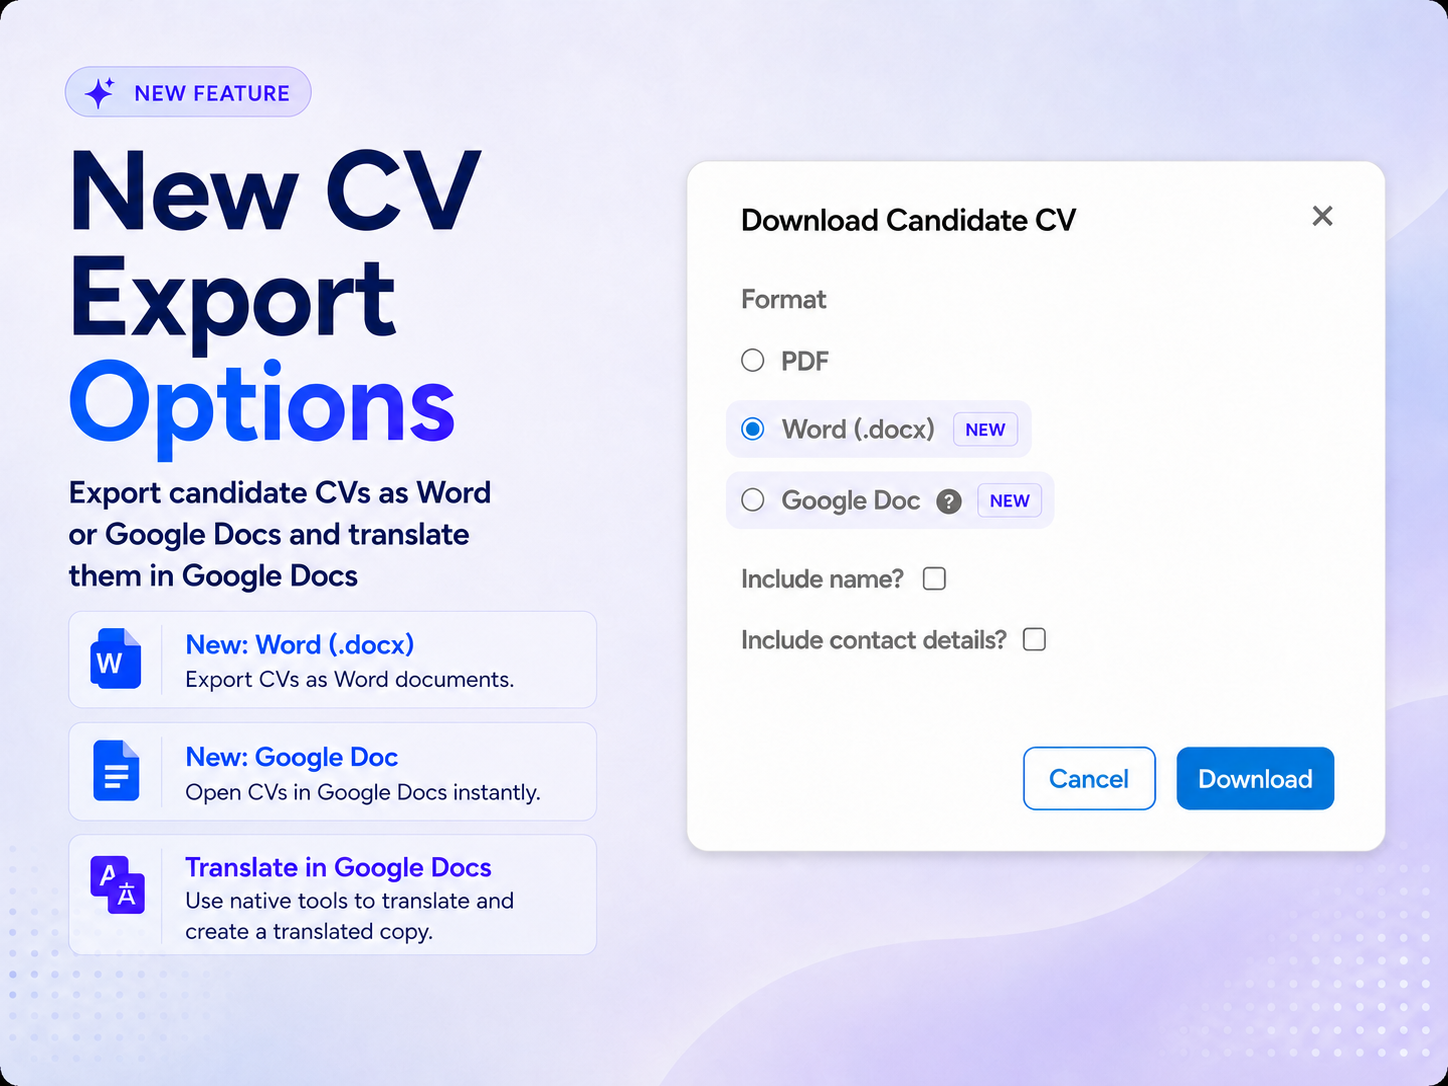
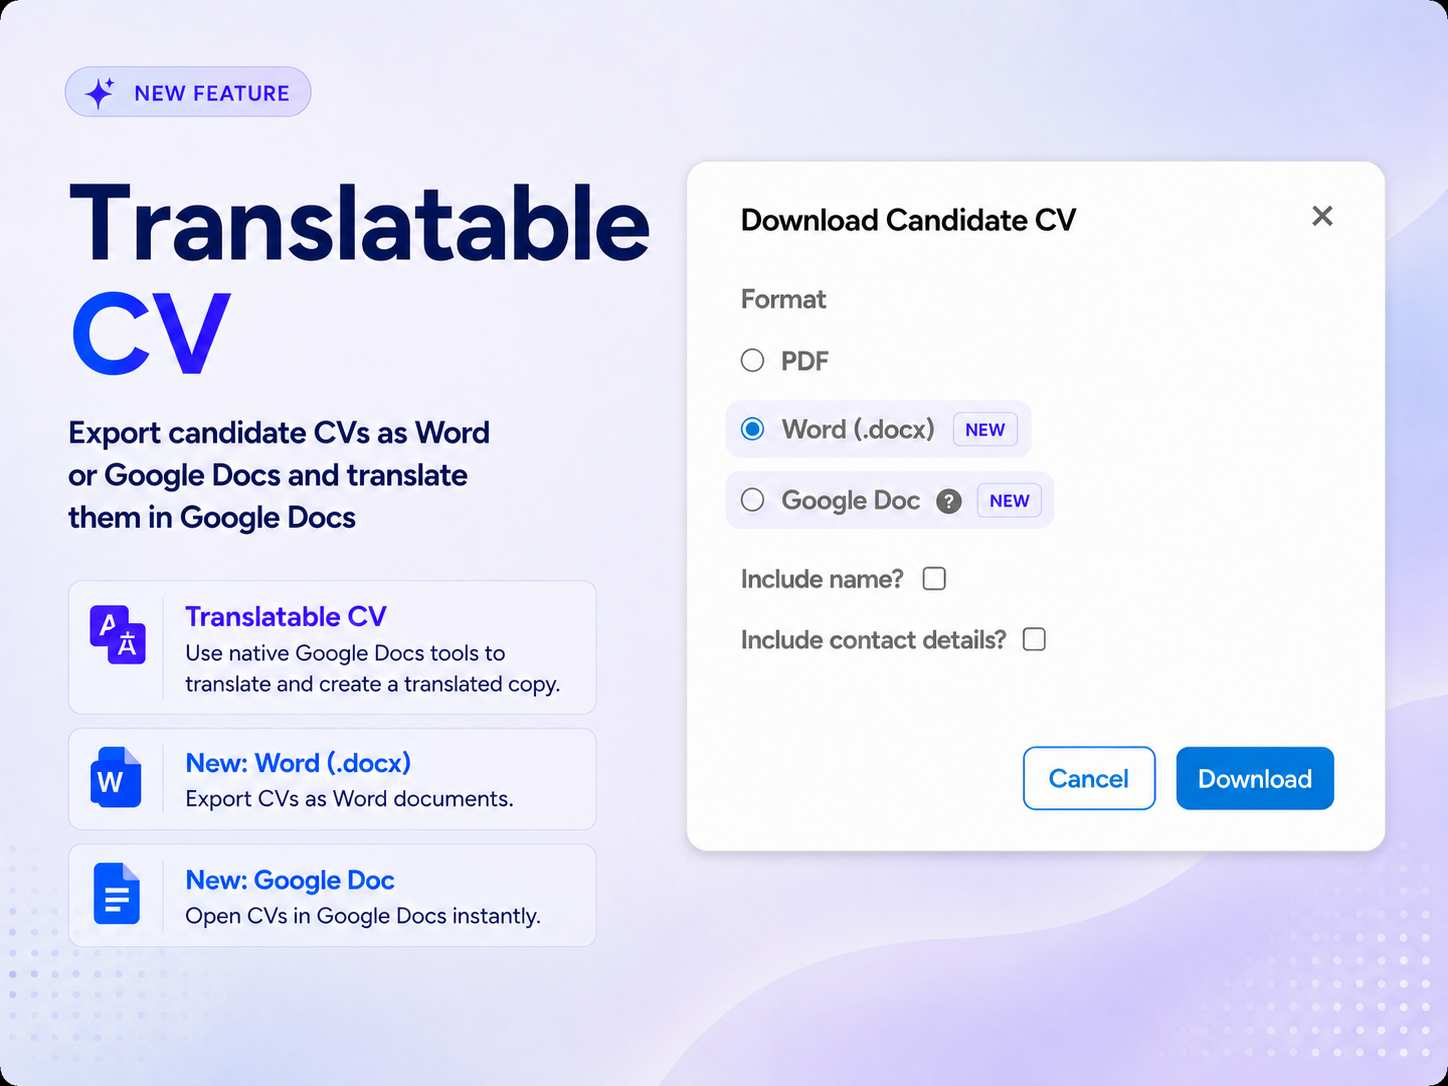
update the release notes

diff --git a/docs/release_notes_v2_5_1.md b/docs/release_notes_v2_5_1.md
@@ -37,23 +37,7 @@ sass:
     </div>
   </a>
 
-  <a href="./v251/task_email_alerts" class="card" style="margin-top: 2rem">
-    <img src="./assets/images/v251/TaskEmailAlerts.png" alt="Task email alerts" class="card-image">
-    <div class="card-body">
-      <div class="card-footer">
-        <button class="btn btn-sm">Learn more</button>
-      </div>
-    </div>
-  </a>
-
-</div>
-
-## Other Enhancements
-* Toggle page size for candidate results
-
-<div class="card-container">
-
-  <a href="./v251/agreement_management" class="card">
+  <a href="./v251/agreement_management" class="card" style="margin-top: 2rem">
     <img src="./assets/images/v251/AgreementManagement.png" alt="Agreement management" class="card-image">
     <div class="card-body">
       <div class="card-footer">
@@ -64,15 +48,58 @@ sass:
 
 </div>
 
+## Other Enhancements
+
+<div class="card-container">
+  <a href="./v251/task_email_alerts" class="card">
+    <img src="./assets/images/v251/TaskEmailAlerts.png" alt="Task email alerts" class="card-image">
+    <div class="card-body">
+      <div class="card-footer">
+        <button class="btn btn-sm">Learn more</button>
+      </div>
+    </div>
+  </a>
+
+  <a href="./v251/casi_service_lists" class="card">
+    <img src="./assets/images/v251/CasiServiceLists.png" alt="CASI service lists" class="card-image">
+    <div class="card-body">
+      <div class="card-footer">
+        <button class="btn btn-sm">Learn more</button>
+      </div>
+    </div>
+  </a>
+</div>
+
+
+## New Tools and Standards
+
+<div class="card-container">
+
+  <a href="./v251/linear_product_roadmap" class="card">
+    <img src="./assets/images/v251/LinearProductRoadmap.png" alt="Linear product roadmap" class="card-image">
+    <div class="card-body">
+      <div class="card-footer">
+        <button class="btn btn-sm">Learn more</button>
+      </div>
+    </div>
+  </a>
+
+  <a href="./v251/vanta_integration" class="card">
+    <img src="./assets/images/v251/VantaAwsIntegration.png" alt="Vanta AWS integration" class="card-image">
+    <div class="card-body">
+      <div class="card-footer">
+        <button class="btn btn-sm">Learn more</button>
+      </div>
+    </div>
+  </a>
+
+</div>
 
 # User Guides
 
 Helpful TC user guides:
 <ul>
-    <li>
-        <a href="https://tc-api.redocly.app/openapi" 
-        target="_blank">Talent Catalog API on Redoc</a>
-    </li>
+    
     <li>
         <a href="https://github.com/Talent-Catalog/talentcatalog/blob/staging/server/src/main/java/org/tctalent/server/casi/README.md" 
         target="_blank">CASI (Candidate Assistance Services Interface) -- Developer Guide</a>
@@ -80,6 +107,10 @@ Helpful TC user guides:
     <li>
         <a href="https://drive.google.com/file/d/1CBBYNjuRrYgOQ0xDRjiegqoznek_i-MB/view?usp=drive_link" 
         target="_blank">Italy Train-to-Hire: Task Management Documentation</a>
+    </li>
+    <li>
+        <a href="https://tc-api.redocly.app/openapi" 
+        target="_blank">Talent Catalog API on Redoc</a>
     </li>
 </ul>
 
@@ -94,13 +125,18 @@ Helpful TC user guides:
 
 # Data Improvements
 
+* Job experience text: candidate and admin text can be kept separate
+* Agreement management for candidate service-provider agreements
+* Full candidate deletion for GDPR-related erasure requests
+
 # UI / UX Enhancements
 
 *  Display folder name on Candidate profile > Additional Info tab > uploaded files
-
-## Other UI / UX Enhancements
+*  Toggle page size for candidate results
 
 # Performance Improvements
+
+While this release wasn't focused on performance, we aren't slowing down after those massive v2.5.0 gains. Stay tuned—even more speed improvements are already in the pipeline! We’re just getting warmed up. 🚀
 
 # Security Updates
 
@@ -124,6 +160,7 @@ Helpful TC user guides:
 * Fixed citizenship intake panel errors when data is missing
 * Resolved migration issue causing some candidates not to be loaded
 * Highlighting matches in search results now only highlights matching words
+* Fixed candidate note ordering in search result summary views
 
 # Developer Notes
 
@@ -134,6 +171,7 @@ Helpful TC user guides:
 
 ## Test Coverage
 * Add tests for candidate-related service classes
+* We’ve successfully scaled our application test coverage from 0% to a robust 60%. But we aren't stopping there—we are actively driving toward an 80% coverage threshold, aligning with industry-standard benchmarks to ensure maximum stability for all future releases.
 
 ## Code Refactoring
 
@@ -148,30 +186,6 @@ Helpful TC user guides:
 * Configure TBB AWS tasks for new translation service
 
 ## Logging and Monitoring
-
-## New Tools and Standards
-
-<div class="card-container">
-
-  <a href="./v251/linear_product_roadmap" class="card">
-    <img src="./assets/images/v251/LinearProductRoadmap.png" alt="Linear product roadmap" class="card-image">
-    <div class="card-body">
-      <div class="card-footer">
-        <button class="btn btn-sm">Learn more</button>
-      </div>
-    </div>
-  </a>
-
-  <a href="./v251/vanta_aws_integration" class="card">
-    <img src="./assets/images/v251/VantaAwsIntegration.png" alt="Vanta AWS integration" class="card-image">
-    <div class="card-body">
-      <div class="card-footer">
-        <button class="btn btn-sm">Learn more</button>
-      </div>
-    </div>
-  </a>
-
-</div>
 
 ## Other Enhancements 
 * Linear product roadmap

diff --git a/docs/v251/casi_service_lists.md b/docs/v251/casi_service_lists.md
@@ -1,0 +1,41 @@
+---
+title: CASI Service Lists
+description: Service-managed saved lists for CASI workflows
+sass:
+  style: compressed
+---
+
+# CASI Service Lists
+
+CASI now includes a service list subsystem for managing Saved Lists used by Candidate Assistance Services.
+
+---
+
+### Service-managed saved lists
+
+Each Candidate Assistance Service can declare the Saved Lists it needs, the role each list plays, and which admin actions are allowed for candidates in those lists.
+
+On startup, Talent Catalog creates or updates the required service lists idempotently, helping avoid hardcoded list IDs across environments.
+
+---
+
+### LinkedIn service support
+
+The LinkedIn service now declares its own service lists instead of relying on manually created Saved Lists with hardcoded IDs.
+
+This includes lists for issue reports, assignment failures, and numbered eligibility lists used by the service.
+
+---
+
+### Admin actions from saved lists
+
+When a Saved List is connected to a CASI service list, admins can see permitted service actions directly in the standard Saved List UI.
+
+For this release, service list actions support reassignment workflows. After a successful action, admins are prompted to remove reassigned candidates from the list.
+
+<div class="card-container">
+  <img src="../assets/images/v251/CasiServiceLists1.png"
+        alt="CASI service lists" class="card-image">
+  <img src="../assets/images/v251/CasiServiceLists2.png"
+        alt="CASI service lists" class="card-image">
+</div>

diff --git a/docs/v251/full_candidate_deletion.md b/docs/v251/full_candidate_deletion.md
@@ -11,11 +11,23 @@ Talent Catalog now supports full candidate deletion for cases where a candidate 
 
 ---
 
-### Supporting candidate privacy rights
+### Supporting candidate privacy rights 
 
 Candidates may request that all of their data is removed from Talent Catalog.
 
-This release improves support for this workflow and helps Talent Catalog meet stronger privacy and data protection requirements.
+This release improves support for this workflow and helps Talent Catalog meet stronger privacy and GDPR data protection requirements.
+
+---
+
+### Deletion status remains the preferred option
+
+In most cases, marking a candidate status as deleted remains the preferred approach.
+
+This preserves historical information for reporting, statistics, and future operational context, while ensuring the candidate is no longer shared or treated as active in normal workflows.
+
+Full candidate deletion is intended for the smaller number of cases where a candidate specifically requests that all of their data be removed.
+
+This gives administrators a supported way to complete full data deletion without needing manual database changes.
 
 ---
 

diff --git a/docs/v251/linear_product_roadmap.md b/docs/v251/linear_product_roadmap.md
@@ -7,13 +7,15 @@ sass:
 
 # Linear Product Roadmap
 
-The engineering team has moved workflows from ZenHub to Linear.
+The engineering team has moved workflows from ZenHub to [Linear](https://linear.app/) — the industry standard for lightning-fast issue tracking, clear planning, and powerful GitHub integration.
 
 ---
 
 ### Linear workspace setup
 
 The Linear workspace has been created as the new home for roadmap planning, issue tracking, and delivery coordination.
+
+Linear is widely used by modern product and engineering teams because it supports fast issue tracking, clear planning, and strong GitHub-based development workflows.
 
 Initial setup focused on inviting admin users first, configuring teams, and preparing the workspace before wider rollout.
 

diff --git a/docs/v251/cv_export_options.md b/docs/v251/cv_export_options.md
@@ -5,7 +5,7 @@ sass:
   style: compressed
 ---
 
-# Generated CV Export Options
+# Translatable cv
 
 Admins can now choose the format when generating a candidate CV from the candidate profile.
 